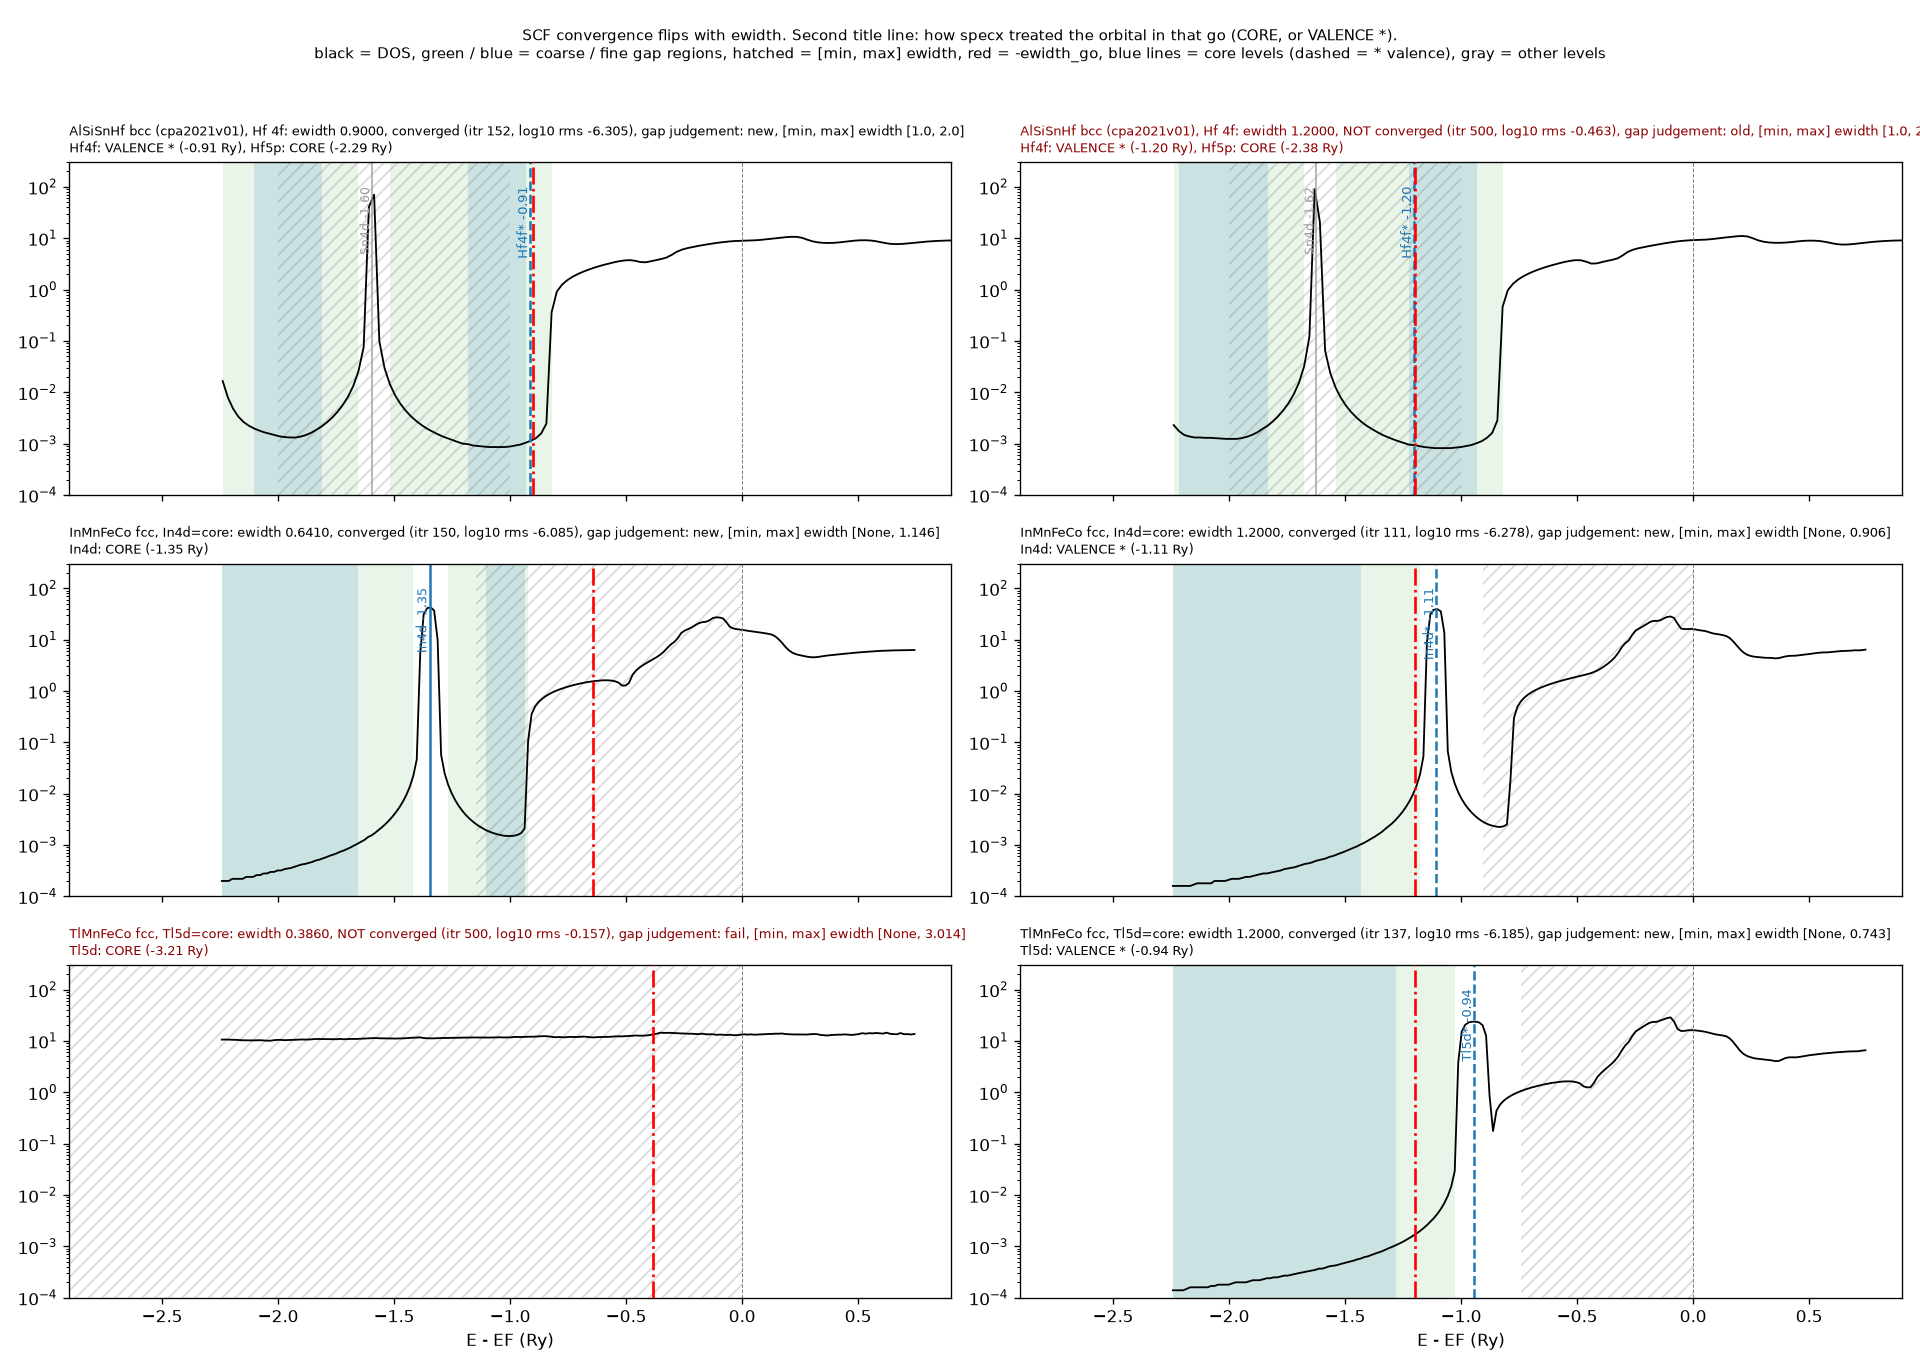
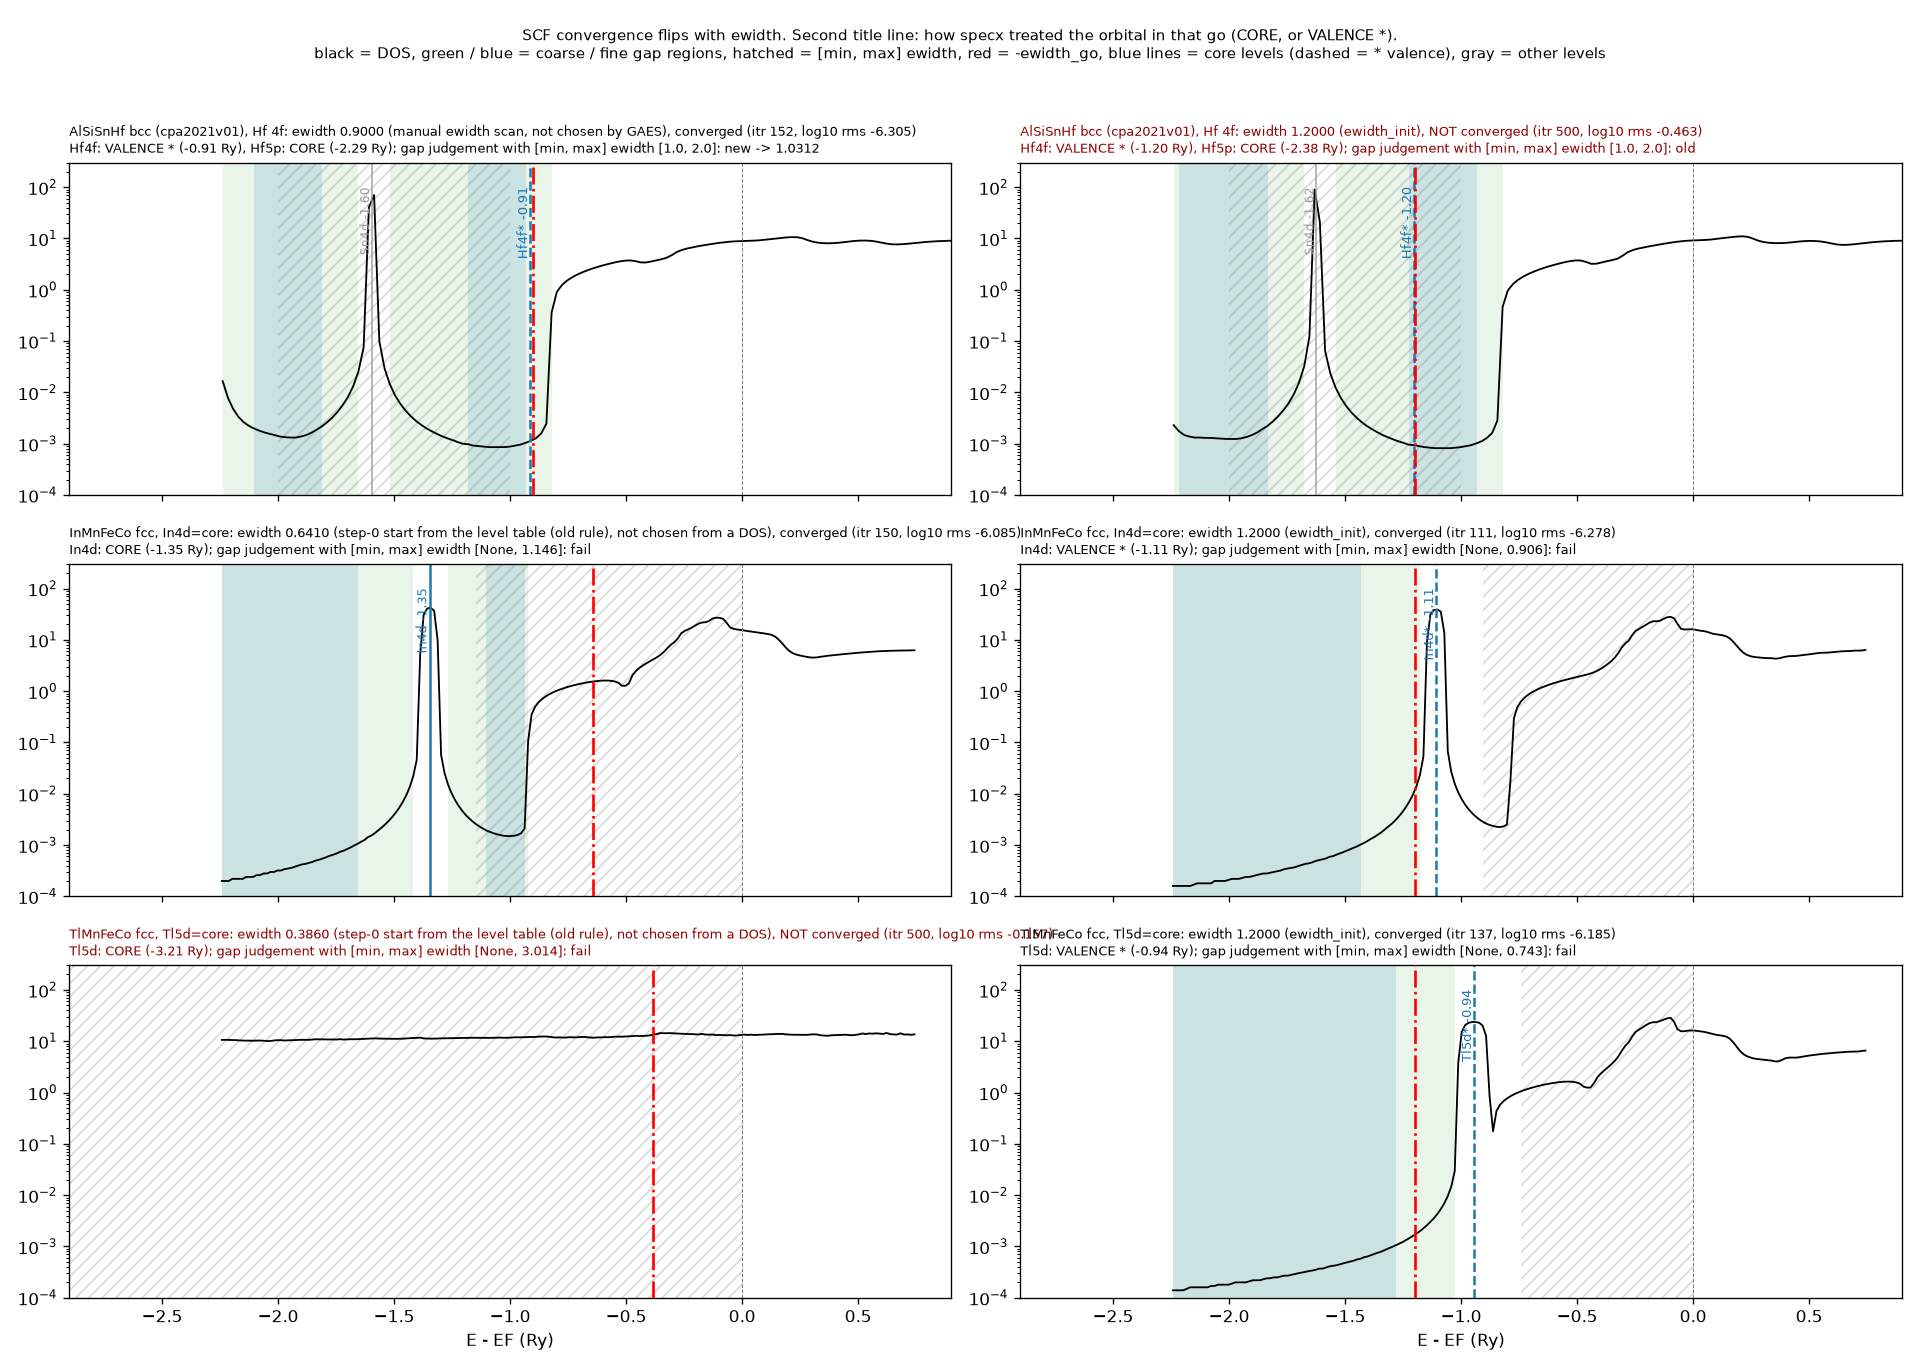
scf_convergence_vs_ewidth_dos.png: judge each panel with its own bounds; say how each ewidth was chosen

diff --git a/tests/gaes/tools/plot_conv_pairs.py b/tests/gaes/tools/plot_conv_pairs.py
@@ -19,9 +19,13 @@ def bounds_of(run_dir, ew):
 PAIRS = [
     # the Hf runs had no orbital rule: the default range [1.0, 2.0] applies
     ("AlSiSnHf bcc (cpa2021v01), Hf 4f", ["Hf4f", "Hf5p"], [(H + "/ew_0.9", 0.9, (1.0, 2.0)), (T + "/key_13145072,ew_000-1.2000,ed_000-1e-04,polytyp_bcc,pm_000-5e-03", 1.2, (1.0, 2.0))]),
+    # the 0.641 / 0.386 starts came from the level table (step-0 rule of the first version, since replaced:
+    # the first go now always uses ewidth_init); they were never chosen from a DOS
     ("InMnFeCo fcc, In4d=core", ["In4d"], [(d, ew, bounds_of(d, ew)) for d, ew in ((glob.glob("RUN_orb4/InMnFeCo_In4d-core/key_*ew_000-0.6410*")[0], 0.641), (glob.glob("RUN_orb5/InMnFeCo_In4d-core/key_*ew_000-1.2000*")[0], 1.2))]),
     ("TlMnFeCo fcc, Tl5d=core", ["Tl5d"], [(d, ew, bounds_of(d, ew)) for d, ew in ((glob.glob("RUN_orb4/TlMnFeCo_Tl5d-core/key_*ew_000-0.3860*")[0], 0.386), (glob.glob("RUN_orb5/TlMnFeCo_Tl5d-core/key_*ew_000-1.2000*")[0], 1.2))]),
 ]
+START_NOTE = {0.9: "manual ewidth scan, not chosen by GAES", 0.641: "step-0 start from the level table (old rule), not chosen from a DOS",
+              0.386: "step-0 start from the level table (old rule), not chosen from a DOS", 1.2: "ewidth_init"}
 def info(d):
     txt = open(d + "/out_go.log").read()
     itr = re.findall(r"itr=\s*(\d+)", txt); err = re.findall(r"rms err=\s*(-?\d+\.\d+)", txt)
@@ -33,14 +37,16 @@ for row, (name, keys, runs) in enumerate(PAIRS):
         e, c, _ = dos_curves_from_outputs([(AkaikkrJob(d), "out_dos.log")]); lv = levels_from_go(d + "/out_go.log")
         n, err, _ = info(d); conv = err is not None and err < -5.9
         # gap regions by the Method 2 rules (dosth 2e-2 / dosth2 1e-3, eth 0.3, ediff 0.2), no ewidth bounds
-        dec = choose_ewidth2(e, c, ew, dosth=2e-2, dosth2=1e-3, eth=0.3, ediff=0.2)
+        dec = choose_ewidth2(e, c, ew, dosth=2e-2, dosth2=1e-3, eth=0.3, ediff=0.2,
+                             min_ewidth=bounds[0] if bounds else None, max_ewidth=bounds[1] if bounds else None)
         flag = dec.flag
         draw_gaes_dos(ax, e, c[0], ewidth=ew, decision=dec, bounds=bounds, levels=lv, highlight=keys, xlim=(-2.9, 0.9))
         # how specx treated the orbital concerned in this go: '*' = valence (inside the contour), else core
         roles = ", ".join("%s: %s (%.2f Ry)" % (k, "VALENCE *" if lv[k].star else "CORE", lv[k].e) for k in keys if k in lv)
         bl = "[%s, %s]" % tuple(None if b is None else round(b, 3) for b in bounds) if bounds else "none"
-        ax.set_title("%s: ewidth %.4f, %s (itr %s, log10 rms %s), gap judgement: %s, [min, max] ewidth %s\n%s" % (
-            name, ew, "converged" if conv else "NOT converged", n, err, flag, bl, roles), fontsize=8, loc="left",
+        ax.set_title("%s: ewidth %.4f (%s), %s (itr %s, log10 rms %s)\n%s; gap judgement with [min, max] ewidth %s: %s%s" % (
+            name, ew, START_NOTE.get(ew, ""), "converged" if conv else "NOT converged", n, err, roles, bl, flag,
+            " -> %.4f" % dec.ewidth if flag == "new" else ""), fontsize=8, loc="left",
             color="k" if conv else "darkred")
 for ax in axes[-1]: ax.set_xlabel("E - EF (Ry)")
 fig.suptitle("SCF convergence flips with ewidth. Second title line: how specx treated the orbital in that go (CORE, or VALENCE *).\n" + legend_text(), fontsize=9)
